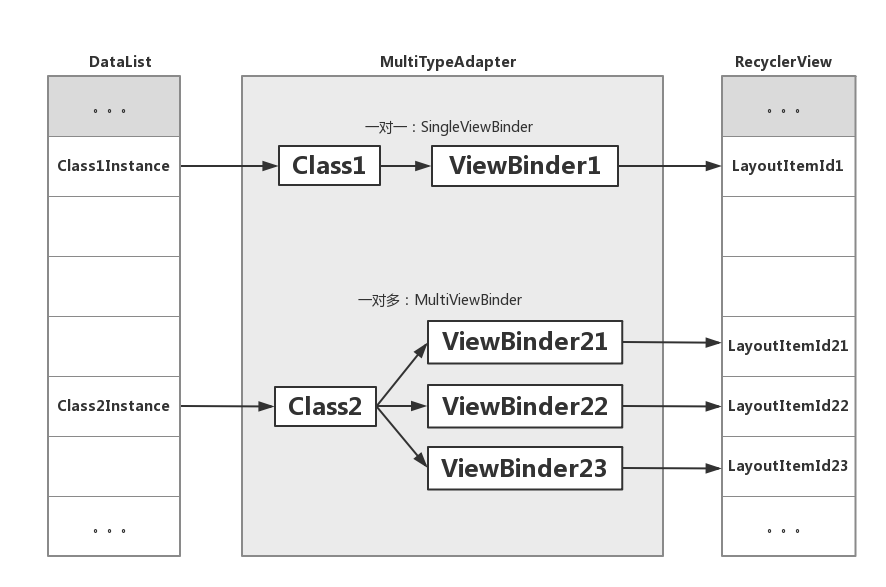
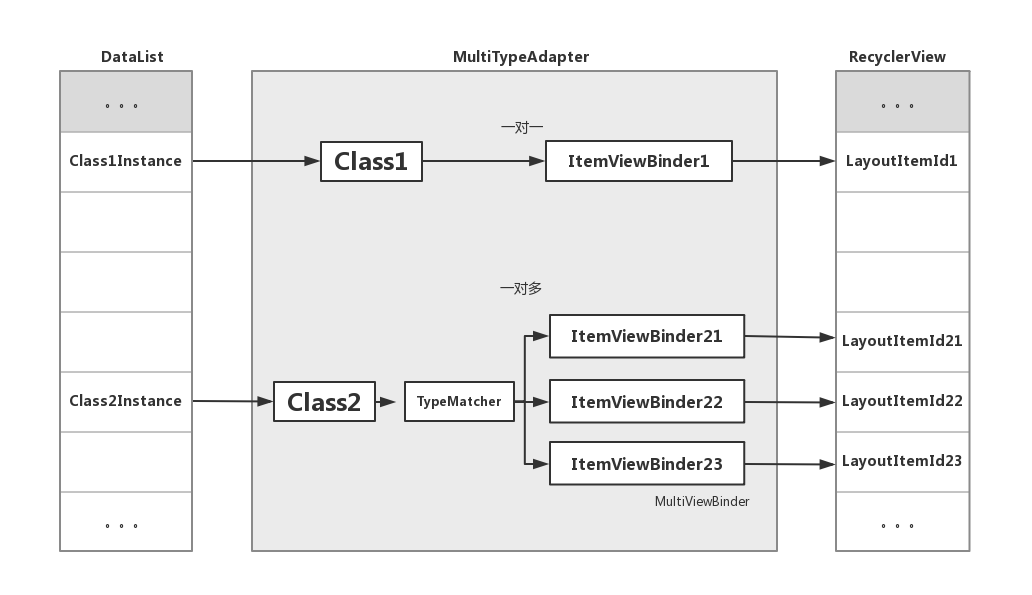
doc(readme)：更新文档

Changed region(s): [[0.0305, 0.0613, 0.9752, 0.9506]]

diff --git a/README.md b/README.md
@@ -25,7 +25,7 @@ dependencies {
 
 关系图：
 
-![关系图](https://github.com/JunhuaLin/MultiTypeAdapter/blob/master/photo/关系图3.png)
+![关系图](https://github.com/JunhuaLin/MultiTypeAdapter/blob/master/photo/关系图.png)
 
 ### 2.基本用法
 #### a.步骤
